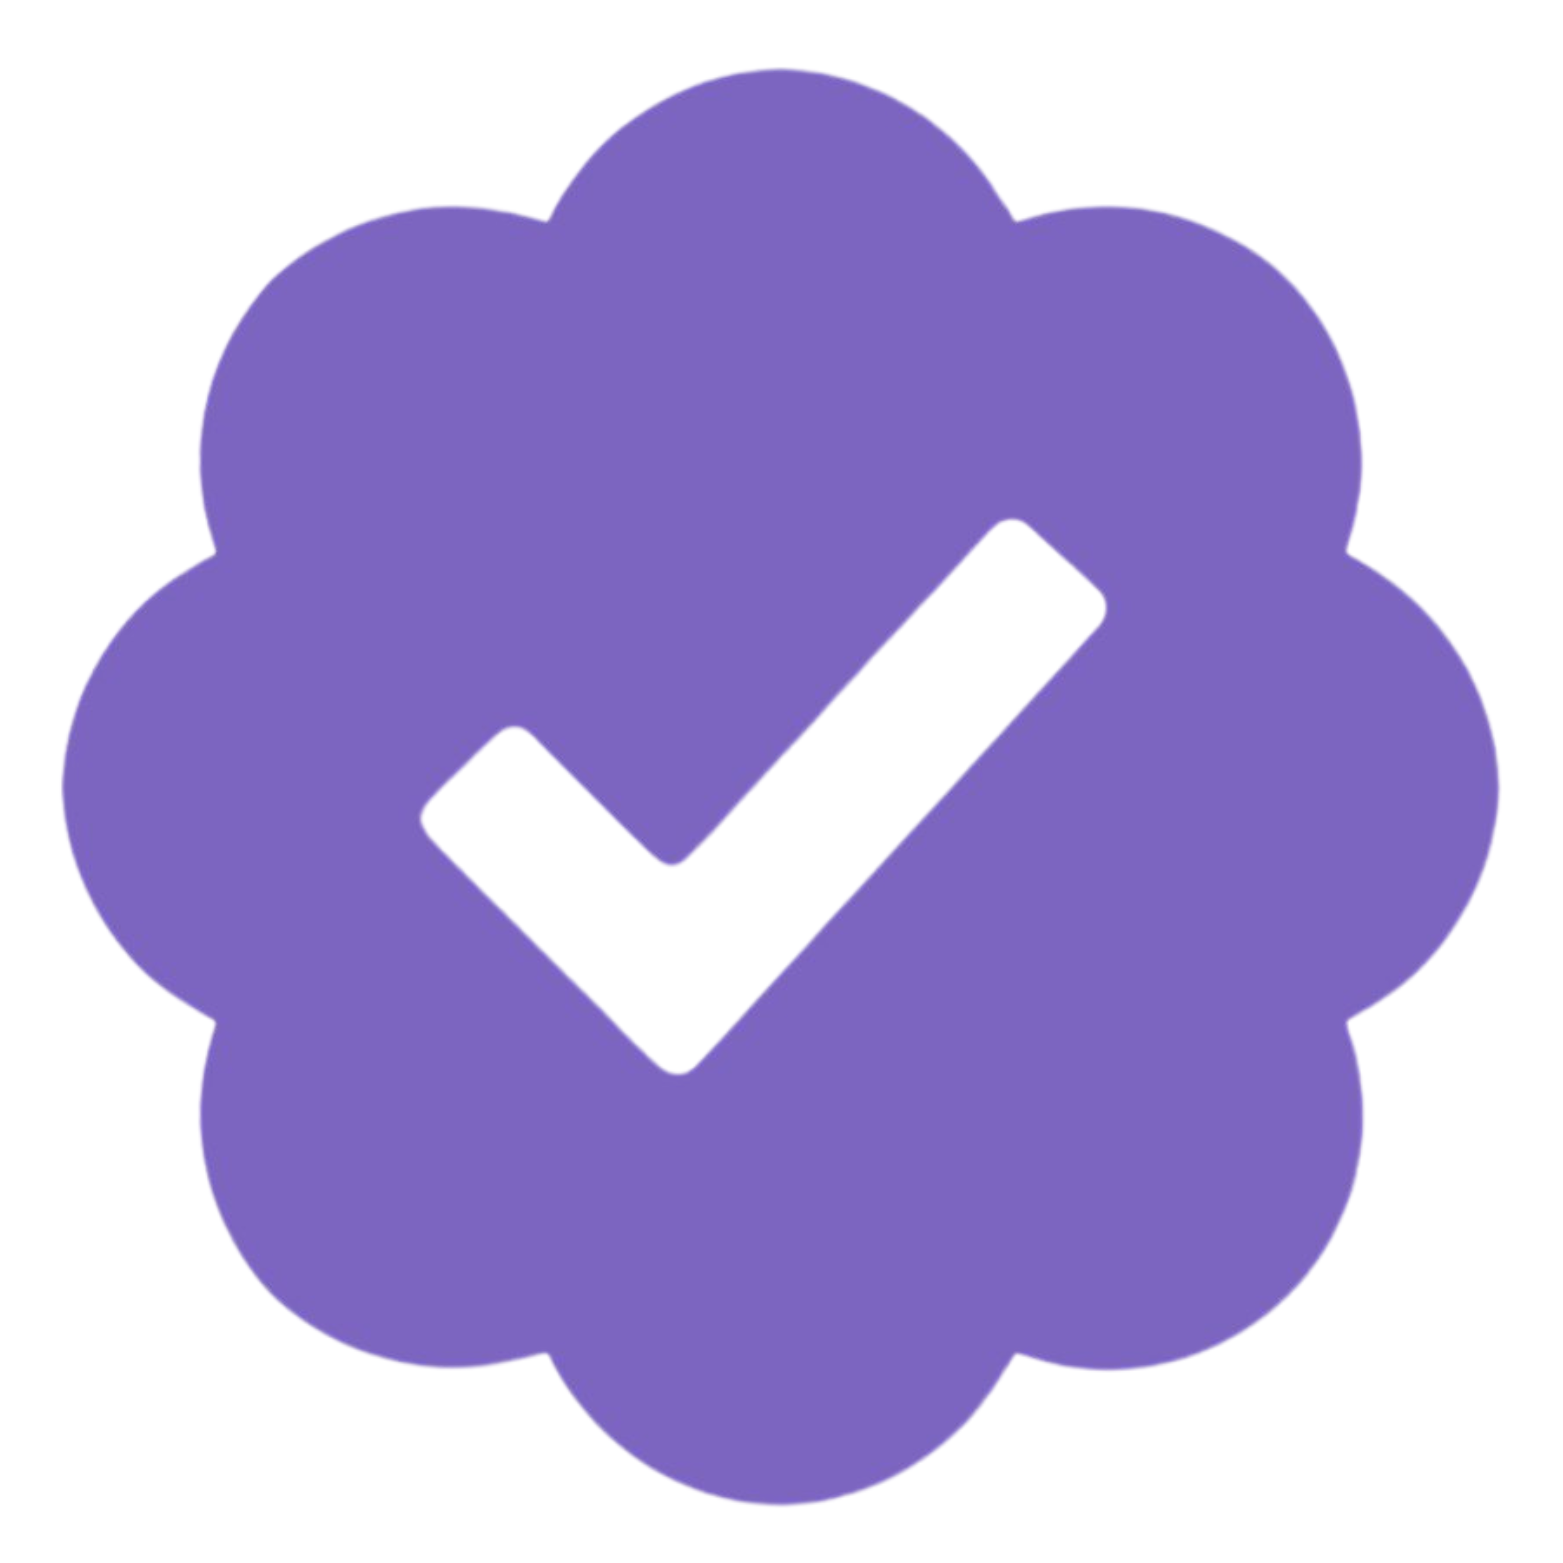
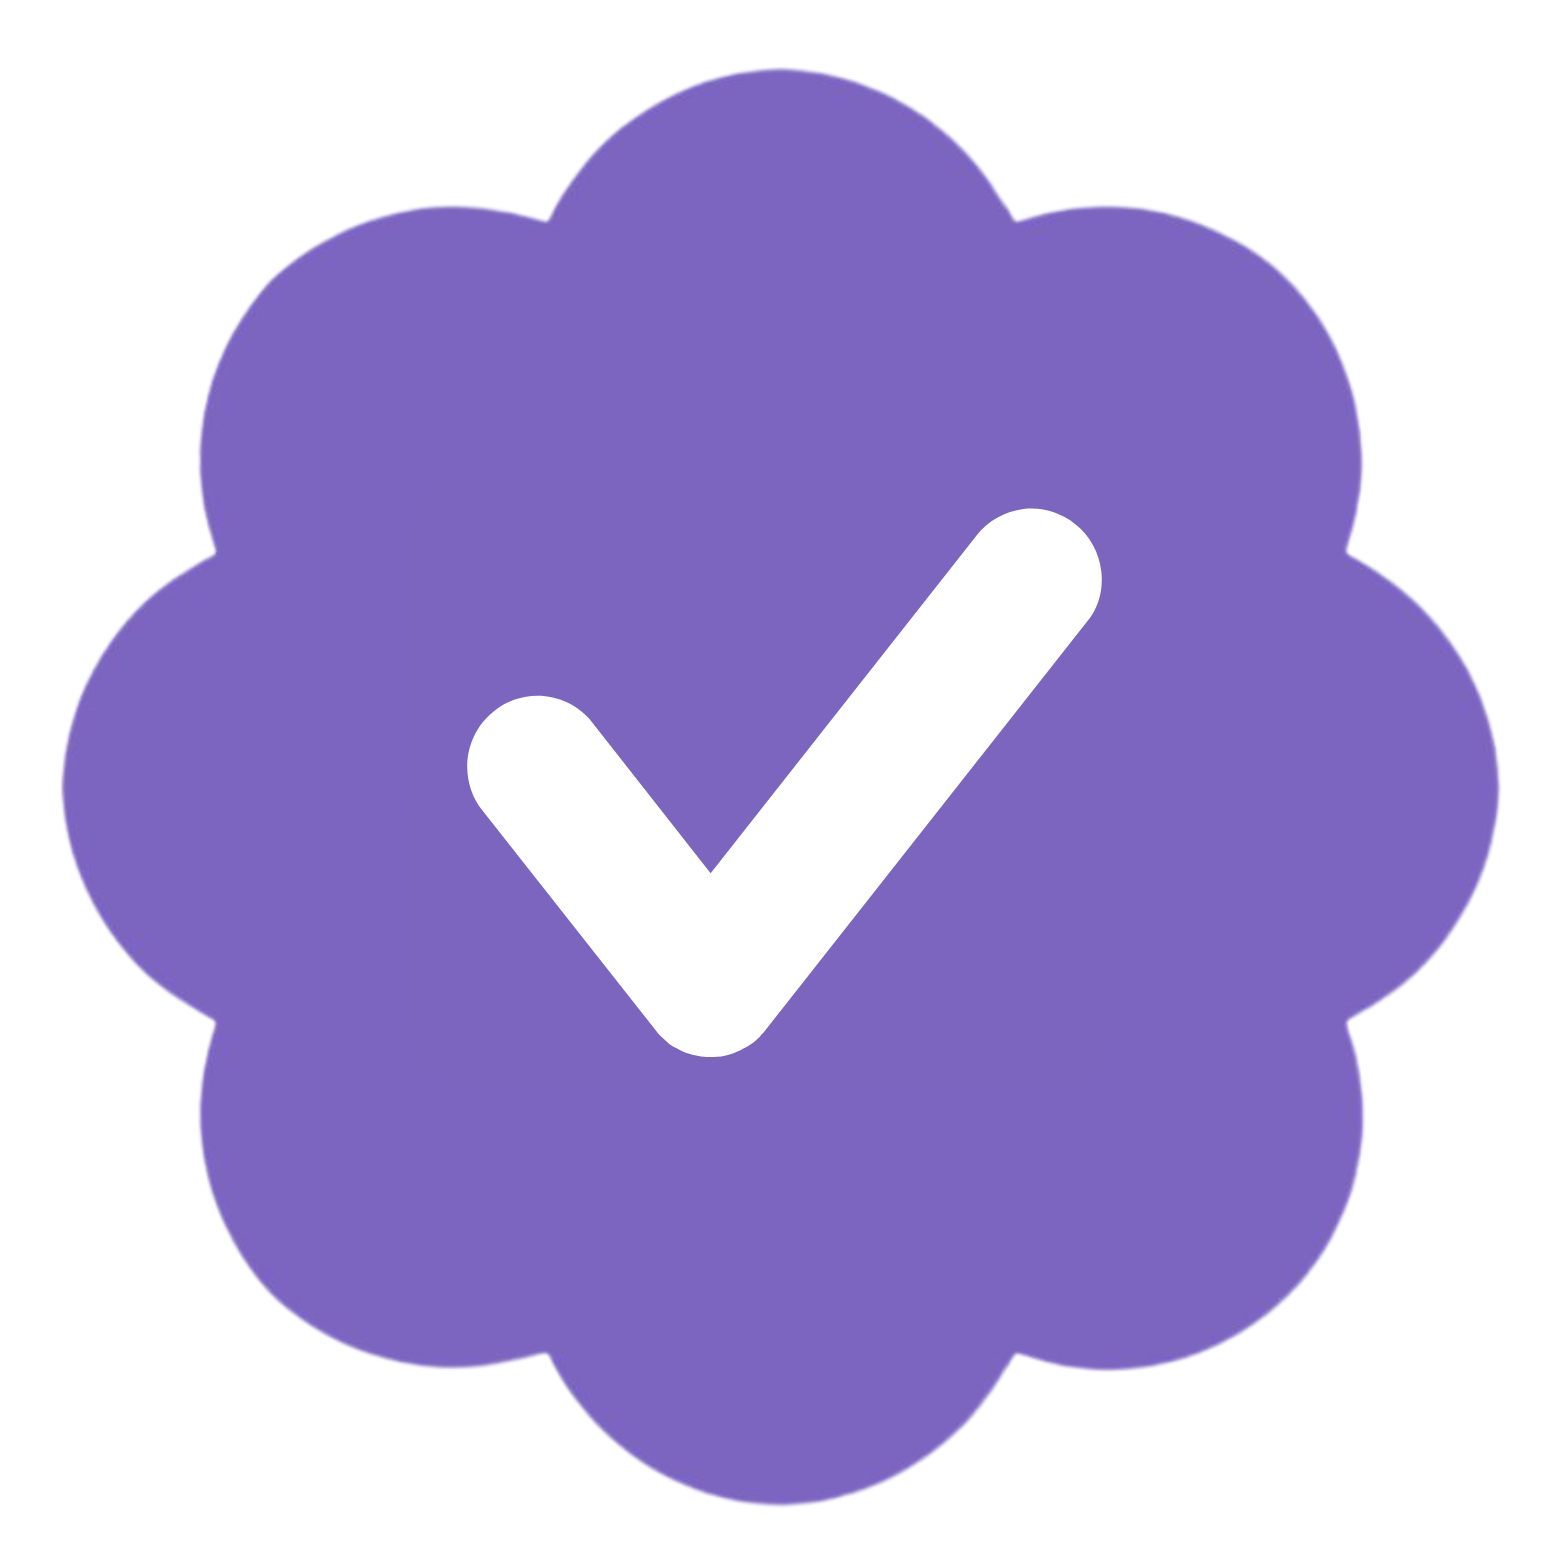
FINAL FIX: Add new FarcasterProBadge.png + proper SDK usage
🖼 NEW IMAGE COMMITTED:
- Commit new purple flower FarcasterProBadge.png that was missing from repo
- This was the root cause of old image still showing in deployed app

🔧 PROPER MINI APP DETECTION:
- Use sdk.context.client.clientFid to detect mini app environment
- Check if context.client exists with valid clientFid number
- Only use SDK features when actually in mini app, not desktop browser

📳 CORRECT HAPTICS API:
- Replace navigator.vibrate() with sdk.haptics.impactOccurred()
- Use 'medium' for link clicks, 'light' for copy actions
- Only trigger haptics when in mini app environment
- Added proper async/await handling

🔗 IMPROVED EXTERNAL LINKS:
- Only use sdk.actions.openUrl() when in mini app environment
- Desktop browsers use window.open() directly
- Added comprehensive console logging for debugging

✅ This should fix all three issues:
1. New FarcasterProBadge.png will show (image now in repo)
2. Haptic feedback will work in mini app (proper API)
3. External links open correctly in both environments (proper detection)

diff --git a/src/components/ProfileDisplay.tsx b/src/components/ProfileDisplay.tsx
@@ -33,14 +33,24 @@ function UserProfile({ user, copiedAddress, copyToClipboard }: {
   copiedAddress: string | null;
   copyToClipboard: (text: string) => void;
 }) {
-  const triggerHaptic = () => {
+  // Check if we're in a mini app environment using SDK context
+  const isInMiniApp = async () => {
     try {
-      // Always try haptics - let the browser decide if it's available
-      if (typeof window !== 'undefined' && 'navigator' in window && 'vibrate' in navigator) {
-        console.log('📳 Triggering haptic feedback');
-        navigator.vibrate(50);
+      if (!sdk || !sdk.context) return false;
+      const context = await sdk.context;
+      return context && context.client && typeof context.client.clientFid === 'number';
+    } catch {
+      return false;
+    }
+  };
+
+  const triggerHaptic = async () => {
+    try {
+      if ((await isInMiniApp()) && sdk && sdk.haptics) {
+        console.log('📳 Triggering Farcaster haptic feedback');
+        await sdk.haptics.impactOccurred('medium');
       } else {
-        console.log('❌ Haptic feedback not available');
+        console.log('❌ Not in mini app or haptics not available');
       }
     } catch (error) {
       console.error('❌ Haptic feedback failed:', error);
@@ -49,22 +59,22 @@ function UserProfile({ user, copiedAddress, copyToClipboard }: {
 
   const handleExternalLink = async (url: string) => {
     console.log('🔗 Opening external link:', url);
-    triggerHaptic();
+    await triggerHaptic();
     
-    // Always try SDK first, then fallback to window.open
-    try {
-      if (sdk && sdk.actions && sdk.actions.openUrl) {
-        console.log('✅ Using SDK to open URL');
-        await sdk.actions.openUrl(url);
-        return;
-      } else {
-        console.log('❌ SDK not available, falling back to window.open');
+    // Only use SDK if we're in mini app environment
+    if (await isInMiniApp()) {
+      try {
+        if (sdk && sdk.actions && sdk.actions.openUrl) {
+          console.log('✅ Using SDK to open URL');
+          await sdk.actions.openUrl(url);
+          return;
+        }
+      } catch (error) {
+        console.error('❌ Failed to open external URL with SDK:', error);
       }
-    } catch (error) {
-      console.error('❌ Failed to open external URL with SDK:', error);
     }
     
-    // Fallback to window.open
+    // Fallback to window.open for desktop browsers
     console.log('🌐 Using window.open fallback');
     window.open(url, '_blank', 'noopener,noreferrer');
   };
@@ -523,18 +533,29 @@ function UserProfile({ user, copiedAddress, copyToClipboard }: {
 export default function ProfileDisplay({ users, notFoundAddresses }: ProfileDisplayProps) {
   const [copiedAddress, setCopiedAddress] = useState<string | null>(null);
 
+  // Check if we're in a mini app environment using SDK context
+  const isInMiniApp = async () => {
+    try {
+      if (!sdk || !sdk.context) return false;
+      const context = await sdk.context;
+      return context && context.client && typeof context.client.clientFid === 'number';
+    } catch {
+      return false;
+    }
+  };
+
   const copyToClipboard = async (text: string) => {
     try {
       await navigator.clipboard.writeText(text);
       console.log('📋 Copied to clipboard:', text);
       
-      // Add haptic feedback - always try it
+      // Add haptic feedback using proper Farcaster SDK
       try {
-        if (typeof window !== 'undefined' && 'navigator' in window && 'vibrate' in navigator) {
-          console.log('📳 Triggering haptic feedback for copy');
-          navigator.vibrate(50);
+        if ((await isInMiniApp()) && sdk && sdk.haptics) {
+          console.log('📳 Triggering Farcaster haptic feedback for copy');
+          await sdk.haptics.impactOccurred('light');
         } else {
-          console.log('❌ Haptic feedback not available for copy');
+          console.log('❌ Not in mini app or haptics not available for copy');
         }
       } catch (error) {
         console.error('❌ Haptic feedback failed for copy:', error);
